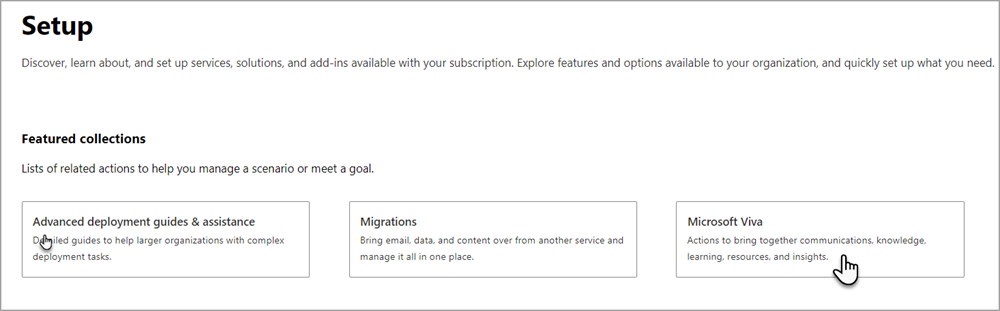
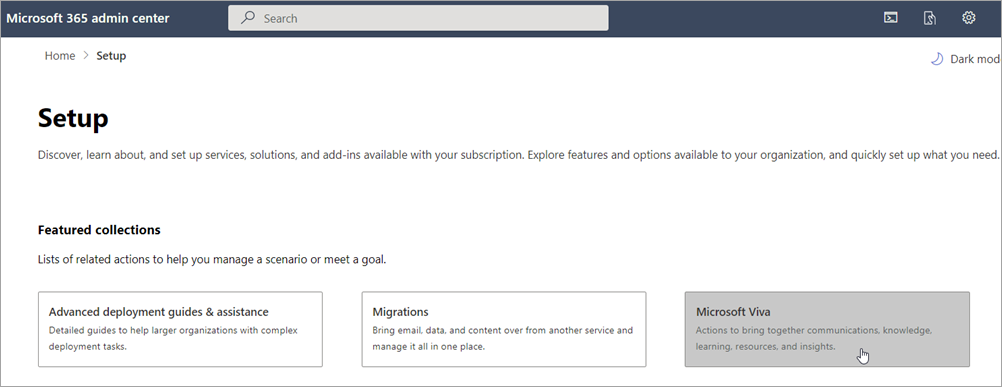
Updates

diff --git a/Viva/new-microsoft-viva-admin-experience.md b/Viva/new-microsoft-viva-admin-experience.md
@@ -24,15 +24,20 @@ description: "Learn about the new Viva admin experience"
 
 With the new Microsoft Viva admin experience, admins can initiate setup, deployment, and license management for all generally available Viva applications from a central location in the Microsoft 365 Admin Center.
 
-> [!NOTE] This article is intended for [Targeted Release](/microsoft-365/admin/manage/release-options-in-office-365) customers. Some functionality is introduced gradually to organizations that have set up the targeted release options in Microsoft 365. If you're not part of the targeted release program, you may not yet see this feature or it may look different than what is described in this help article. Features are subject to change. If you are not in the Targeted Release program, see [Set up Microsoft Viva](/viva/setup-microsoft-viva.md).
+> [!NOTE]
+> This article is intended for [Targeted Release](/microsoft-365/admin/manage/release-options-in-office-365) customers. Some functionality is introduced gradually to organizations that have set up the targeted release options in Microsoft 365. If you're not part of the targeted release program, you may not yet see this feature or it may look different than what is described in this help article. Features are subject to change. If you are not in the Targeted Release program, see [Set up Microsoft Viva](/viva/setup-microsoft-viva.md).
 
 ## Getting to the admin experience
 
 1. Sign into your account as an Microsoft 365 admin.
 2. Select Setup in the left navigation.
-3. Select the Microsoft Viva tile. This brings you to the [Microsoft Viva admin page](https://admin.microsoft.com/Adminportal/Home?source=applauncher#/featureexplorer/collections/VivaExperiences).
+3. Select the Microsoft Viva tile. 
 
-![Viva admin page](media/viva-setup.png)
+![Viva admin tile](media/viva-setup.png)
+
+This brings you to the [Microsoft Viva admin page](https://admin.microsoft.com/Adminportal/Home?source=applauncher#/featureexplorer/collections/VivaExperiences).
+
+![Viva new admin page](media/viva-new-admin.png)
 
 Things you can do on this page:
 

diff --git a/Viva/setup-microsoft-viva.md b/Viva/setup-microsoft-viva.md
@@ -26,9 +26,10 @@ Microsoft Viva is an organizing layer for employee experiences that puts people 
 
 Microsoft Viva consists of several modules including Viva Topics, Viva Insights, Viva Learning, Viva Connections, Viva Sales, Viva Goals, and Viva Engage. To set up the whole suite, you’ll set up each module individually.
 
-> [!Note] If you are in the targeted release program, you may see a different experience than what is described here. See [The new Microsoft Viva admin experience](/Viva/new-microsoft-viva-admin-experience.md)
+> [!NOTE]
+> If you are in the targeted release program, you may see a different experience than what is described here. See [The new Microsoft Viva admin experience](/Viva/new-microsoft-viva-admin-experience.md).
 
-### Start setting up
+## Start setting up
 
 To jump right in and starting setting up, you'll have to be a Microsoft admin and be signed in to your account.
 
